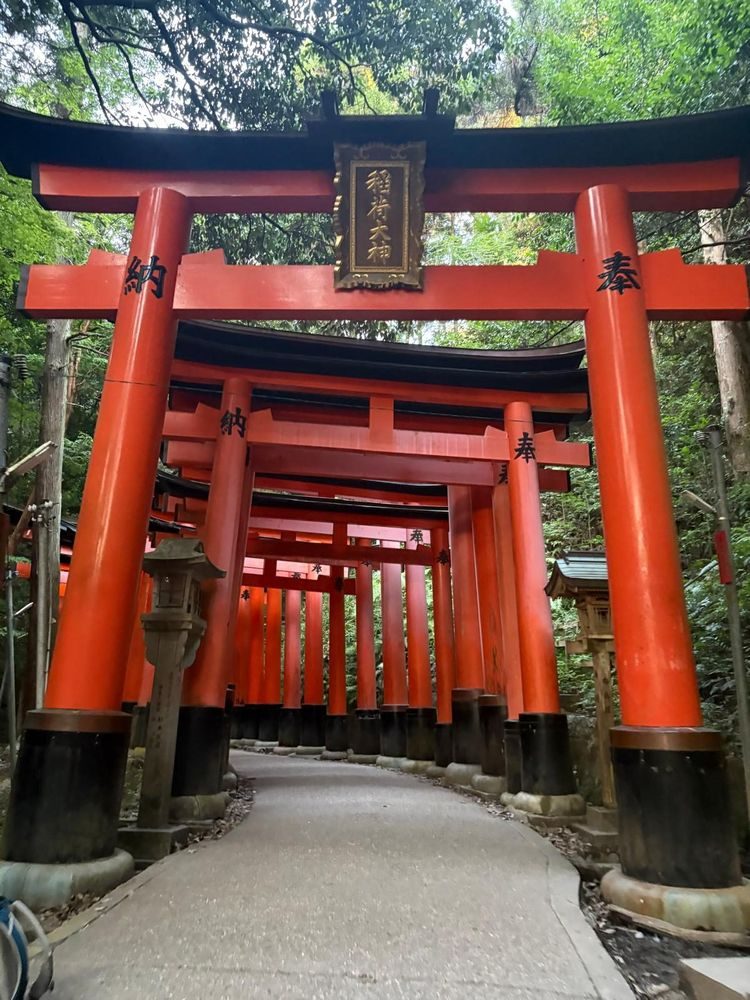
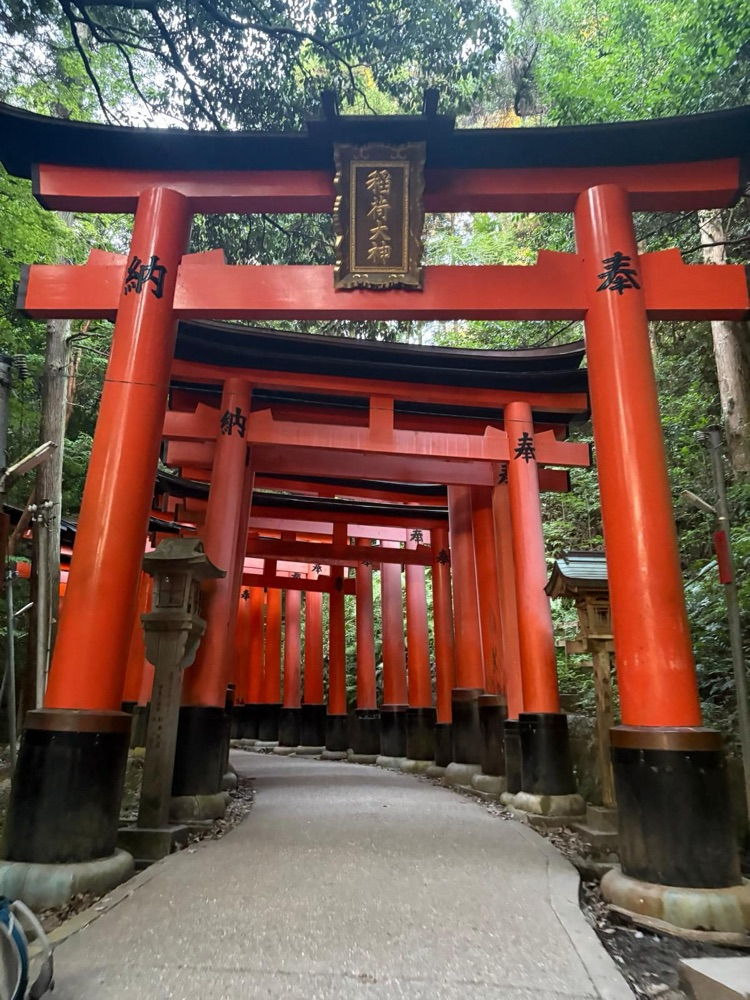
reseñas: 8 publicada(s)

diff --git a/tony-kansai-src/public/resenas.html b/tony-kansai-src/public/resenas.html
@@ -18,7 +18,10 @@
 <script type="application/ld+json">
 {
   "@context": "https://schema.org",
-  "@type": ["LocalBusiness", "TravelAgency"],
+  "@type": [
+    "LocalBusiness",
+    "TravelAgency"
+  ],
   "@id": "https://tonykansaiguide.com/#negocio",
   "name": "Tony Kansai Guide",
   "url": "https://tonykansaiguide.com",
@@ -28,9 +31,39 @@
     "ratingValue": 5.0,
     "bestRating": 5,
     "worstRating": 1,
-    "reviewCount": 6
+    "reviewCount": 8
   },
   "review": [
+    {
+      "@type": "Review",
+      "author": {
+        "@type": "Person",
+        "name": "Alba Romero Villa"
+      },
+      "datePublished": "2026-10-16",
+      "reviewRating": {
+        "@type": "Rating",
+        "ratingValue": 5,
+        "bestRating": 5,
+        "worstRating": 1
+      },
+      "reviewBody": "Tony es un guía extraordinario. Ha diseñado la ruta a medida. Teniendo en cuenta lo que habíamos visto el día anterior. Nos ha recogido en el hotel (algo muy práctico ya que los monumentos están abarrotados y encontrarse allí puede ser más difícil). Tenía muchísimo conocimiento y ha compartido mucha historia de Kyoto y datos interesantes de un forma amena, pudiendo retener retener la información. El pequeño plus: toma muy buenas fotos y sabe los puntos clave para sacar los mejores planos a monumentos."
+    },
+    {
+      "@type": "Review",
+      "author": {
+        "@type": "Person",
+        "name": "Jhon \u0026 Lisa"
+      },
+      "datePublished": "2026-10-16",
+      "reviewRating": {
+        "@type": "Rating",
+        "ratingValue": 5,
+        "bestRating": 5,
+        "worstRating": 1
+      },
+      "reviewBody": "We had an absolutely incredible day exploring Kyoto with Tony as our guide. We couldn't have asked for a better host or a more complete experience!\n\nWe started our morning in Arashiyama, exploring the entire Tenryu-ji temple complex and the breathtaking bamboo grove. Tony didn't just show us the sights; he shared the deep history behind everything and led us along a beautiful walk by the river.\n\nIn the afternoon, we headed to Kiyomizu-dera (the pure water temple), where Tony once again brought the history of the site to life with great storytelling. But the absolute highlights were the hidden gems he took us to:\n\nHeading up just past the pagoda on the upper street of Kiyomizu-dera, he showed us a hidden temple called Senjaku. It was an amazing surprise—there were hardly any crowds, giving it an untouched, peaceful atmosphere, and it's so hidden it doesn't even show up on Google Maps!\n\nOn the way back down, to escape the heavy crowds, Tony led us through a massive ancient cemetery. It was fascinating to see an authentic, traditional Japanese cemetery up close, pass by another serene temple along the path, and make our way back down much faster.\n\nTony is super fun, attentive."
+    },
     {
       "@type": "Review",
       "author": {
@@ -261,15 +294,33 @@
   <div class="wrap">
 <!-- REVIEWS-HTML:START -->
     <!-- Copia fija de reviews.json para quien lee sin JS (buscadores, IAs).
-         El script de abajo la sustituye por la lista completa (Worker + reviews.json). -->
+         La regenera resenas.py publicar; el script de abajo la sustituye por la lista completa. -->
     <div class="rev-summary" id="revSummary">
       <div class="rev-score">5.0<small> / 5</small></div>
       <div class="grow">
         <span class="rateline" role="img" aria-label="5.0 de 5 estrellas"><span class="st"><span class="bg" aria-hidden="true">★</span><span class="fg" aria-hidden="true" style="width:100%">★</span></span><span class="st"><span class="bg" aria-hidden="true">★</span><span class="fg" aria-hidden="true" style="width:100%">★</span></span><span class="st"><span class="bg" aria-hidden="true">★</span><span class="fg" aria-hidden="true" style="width:100%">★</span></span><span class="st"><span class="bg" aria-hidden="true">★</span><span class="fg" aria-hidden="true" style="width:100%">★</span></span><span class="st"><span class="bg" aria-hidden="true">★</span><span class="fg" aria-hidden="true" style="width:100%">★</span></span></span>
-        <div class="meta" style="margin-top:6px">Sobre 6 reseñas de clientes</div>
+        <div class="meta" style="margin-top:6px">8 reseñas de clientes</div>
       </div>
     </div>
     <div class="rev-grid" id="revGrid">
+    <article class="rev"><div class="body"><span class="rateline" role="img" aria-label="5 de 5 estrellas"><span class="st"><span class="bg" aria-hidden="true">★</span><span class="fg" aria-hidden="true" style="width:100%">★</span></span><span class="st"><span class="bg" aria-hidden="true">★</span><span class="fg" aria-hidden="true" style="width:100%">★</span></span><span class="st"><span class="bg" aria-hidden="true">★</span><span class="fg" aria-hidden="true" style="width:100%">★</span></span><span class="st"><span class="bg" aria-hidden="true">★</span><span class="fg" aria-hidden="true" style="width:100%">★</span></span><span class="st"><span class="bg" aria-hidden="true">★</span><span class="fg" aria-hidden="true" style="width:100%">★</span></span></span>
+      <blockquote dir="auto" lang="es">Tony es un guía extraordinario. Ha diseñado la ruta a medida. Teniendo en cuenta lo que habíamos visto el día anterior. Nos ha recogido en el hotel (algo muy práctico ya que los monumentos están abarrotados y encontrarse allí puede ser más difícil). Tenía muchísimo conocimiento y ha compartido mucha historia de Kyoto y datos interesantes de un forma amena, pudiendo retener retener la información. El pequeño plus: toma muy buenas fotos y sabe los puntos clave para sacar los mejores planos a monumentos.</blockquote>
+      <div class="who"><b>Alba Romero Villa</b>Spain · October 2026<span class="revtour">Kioto</span></div>
+    </div></article>
+    <article class="rev"><div class="body"><span class="rateline" role="img" aria-label="5 de 5 estrellas"><span class="st"><span class="bg" aria-hidden="true">★</span><span class="fg" aria-hidden="true" style="width:100%">★</span></span><span class="st"><span class="bg" aria-hidden="true">★</span><span class="fg" aria-hidden="true" style="width:100%">★</span></span><span class="st"><span class="bg" aria-hidden="true">★</span><span class="fg" aria-hidden="true" style="width:100%">★</span></span><span class="st"><span class="bg" aria-hidden="true">★</span><span class="fg" aria-hidden="true" style="width:100%">★</span></span><span class="st"><span class="bg" aria-hidden="true">★</span><span class="fg" aria-hidden="true" style="width:100%">★</span></span></span>
+      <blockquote dir="auto" lang="en">We had an absolutely incredible day exploring Kyoto with Tony as our guide. We couldn&#x27;t have asked for a better host or a more complete experience!
+
+We started our morning in Arashiyama, exploring the entire Tenryu-ji temple complex and the breathtaking bamboo grove. Tony didn&#x27;t just show us the sights; he shared the deep history behind everything and led us along a beautiful walk by the river.
+
+In the afternoon, we headed to Kiyomizu-dera (the pure water temple), where Tony once again brought the history of the site to life with great storytelling. But the absolute highlights were the hidden gems he took us to:
+
+Heading up just past the pagoda on the upper street of Kiyomizu-dera, he showed us a hidden temple called Senjaku. It was an amazing surprise—there were hardly any crowds, giving it an untouched, peaceful atmosphere, and it&#x27;s so hidden it doesn&#x27;t even show up on Google Maps!
+
+On the way back down, to escape the heavy crowds, Tony led us through a massive ancient cemetery. It was fascinating to see an authentic, traditional Japanese cemetery up close, pass by another serene temple along the path, and make our way back down much faster.
+
+Tony is super fun, attentive.</blockquote>
+      <div class="who"><b>Jhon &amp; Lisa</b>Australia, England · October 2026<span class="revtour">Kioto</span></div>
+    </div></article>
     <article class="rev"><div class="body"><span class="rateline" role="img" aria-label="5 de 5 estrellas"><span class="st"><span class="bg" aria-hidden="true">★</span><span class="fg" aria-hidden="true" style="width:100%">★</span></span><span class="st"><span class="bg" aria-hidden="true">★</span><span class="fg" aria-hidden="true" style="width:100%">★</span></span><span class="st"><span class="bg" aria-hidden="true">★</span><span class="fg" aria-hidden="true" style="width:100%">★</span></span><span class="st"><span class="bg" aria-hidden="true">★</span><span class="fg" aria-hidden="true" style="width:100%">★</span></span><span class="st"><span class="bg" aria-hidden="true">★</span><span class="fg" aria-hidden="true" style="width:100%">★</span></span></span>
       <blockquote dir="auto" lang="es">Puntual y amable. Nos enseñó de forma detallada por Osaka.</blockquote>
       <div class="who"><b>Marc</b>October 2026<span class="revtour">Osaka</span></div>
